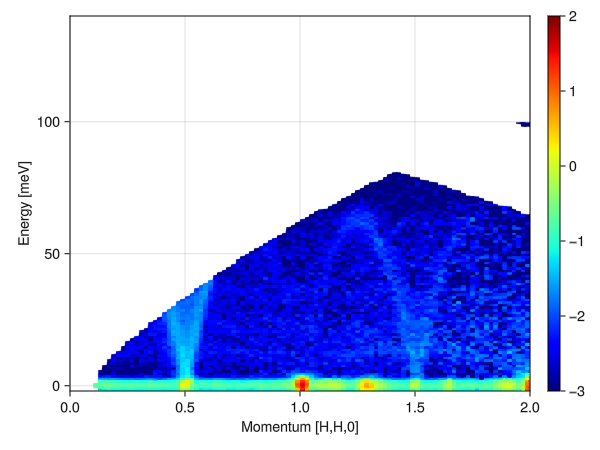
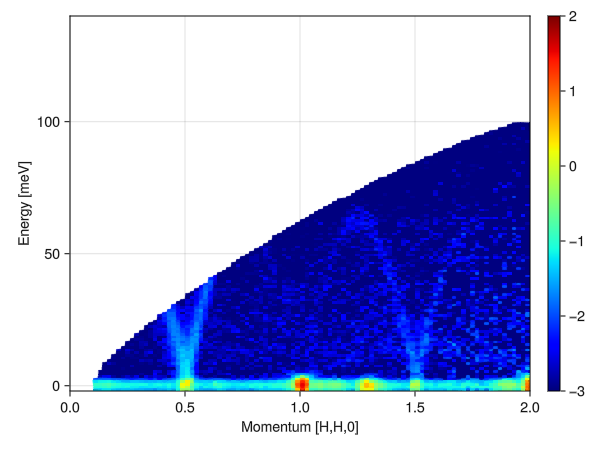
fixup fitting tutorial

Changed region(s): [[0.15, 0.2489, 0.9, 0.8711]]

diff --git a/initiatives/Sam-GT/docs/fitting_tutorial.md b/initiatives/Sam-GT/docs/fitting_tutorial.md
@@ -50,7 +50,7 @@ Now, to slice the data into a usable format, we will use `bin_tools.jl`:
 include("../inverse-toolkit/bin_tools.jl")
 
 # Integrate [K,-K,0] axis over an interval around K=0
-p, d = approximate_bintegrate(2,-0.1,0.12,params,data)
+p, d = approximate_bintegrate(2,-0.05,0.05,params,data)
 
 # Leave energy axis unrestricted
 p, d = approximate_bintegrate(4,-Inf,Inf,p,d,restrict = true)
@@ -83,7 +83,7 @@ params_use
 ````
 Binning Parameters
 ⊡   100 bins from +0.000 to +2.000 along [+0.50 dx +0.50 dy] (Δ = 0.028)
-∫ Integrated from -0.080 to +0.124 along [+0.50 dx -0.50 dy] (Δ = 0.288)
+∫ Integrated from -0.040 to +0.044 along [+0.50 dx -0.50 dy] (Δ = 0.119)
 ∫ Integrated from -2.000 to +2.010 along [+1.00 dz] (Δ = 4.010)
 ⊡   142 bins from -2.000 to +140.000 along [+1.00 dE] (Δ = 1.000)
 
@@ -122,7 +122,6 @@ function get_intensities(sys::System,linewidth)
       sys.dipoles[2] = [0,3/2,0]
       sys.dipoles[3] = [3/2,0,0]
       sys.dipoles[4] = [-3/2,0,0]
-      randomize_spins!(sys)
     else
       # If that fails, try a random initial state
       randomize_spins!(sys)
@@ -339,7 +338,7 @@ function hand_fit()
 
   # Re-run the calculator whenever the sliders change
   function do_update()
-    sim_data[] .= scale[] * forward_problem(J1[], linewidth[];distance_renorm = d[],D=0,K=0)[:,1,1,:]
+    sim_data[] .= scale[] * forward_problem(J1[], linewidth[];distance_renorm = d[])[:,1,1,:]
     notify(sim_data)
   end
 
@@ -439,7 +438,6 @@ end
 do_basin()
 ````
 ![](fitting_tutorial-23.png)
-
 
 The last two plots above are parameter sweeps of the loss landscape superimposed with
 the thermal basin trajectory. They can be used to assessed to decide whether the `noise_scale` and `temperature`
